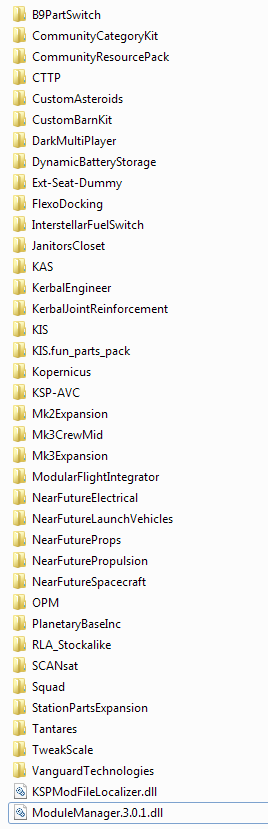
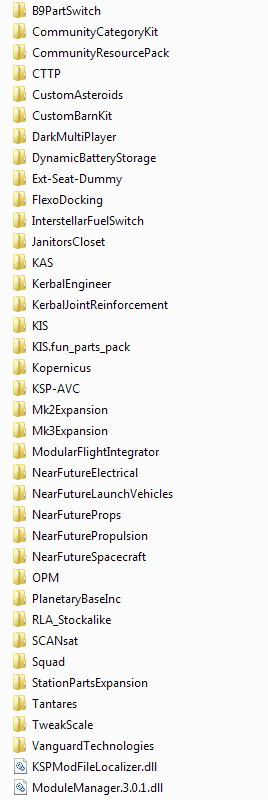
Add files via upload

Changed region(s): [[0.0299, 0.0, 0.6567, 1.0], [0.3284, 0.8438, 0.4478, 0.875], [0.4776, 0.8438, 0.5373, 0.875]]

diff --git a/gettingstarted.html b/gettingstarted.html
@@ -164,6 +164,7 @@ Step 4: connecting to the server
             <dt><a href="https://d-mp.org/downloads/release/latest/DMPClient.zip">Dark Multiplayer (DMP)</a></dt>
             <dd>- This is the client mod for multiplayer in KSP</dd>
             <dd>- Get the primary zip archive from the link above, and place the contents of its ../DMPClient/GameData folder into your ../GameData folder.</dd>
+            <dd>- NOTE: a newer multiplayer mod has been getting developed lately, I am currently running testing to see if this will be suitable to replace DMP.</dd>
             
             &nbsp;
             <dt><a href="https://github.com/skalou/Ext-Seat-Dummy/releases/latest">External Seat Dummy</a></dt>
@@ -254,6 +255,11 @@ Step 4: connecting to the server
             <dd>- Provides framework for changing stock values (such as antenna range).</dd>
             
             &nbsp;
+            <dt><a href="https://www.curseforge.com/kerbal/ksp-mods/interstellar-fuel-switch/files">Interstellar fuel switch</a></dt>
+            <dd>- Provides the ability to switch fueltank contents.</dd>
+            <dd>- Get the latest release from the link, install as normal, and remove the parts folder from ../GameData/InterstellarFuelSwitch</dd>
+            
+            &nbsp;
             <dt><a href="https://github.com/ferram4/Kerbal-Joint-Reinforcement/releases/latest">Kerbal Joint Reinforcement</a></dt>
             <dd>- Makes craft joints less spaghetti.</dd>
             
@@ -266,10 +272,6 @@ Step 4: connecting to the server
             <dt><a href="https://github.com/CYBUTEK/KSPAddonVersionChecker/releases/latest">KSP Addon Version Checker (AVC)</a></dt>
             <dd>- Provides automated version checking, to make sure that the latest version of a mod is installed.</dd>
             <dd>- Get the primary zip archive from the link above, and place the ../KSP-AVC folder into your ../GameData folder.</dd>
-            
-            &nbsp;
-            <dt><a href="https://spacedock.info/mod/1284/Mk3%20Shuttle%20Mid-Deck%20IVA">Mark Three Shuttle Mid-deck IVA</a></dt>
-            <dd>- Adds a mid-deck and two extra crew seats to the Mark Three Shuttle command pod.</dd>
             
             &nbsp;
             <dt><a href="https://github.com/linuxgurugamer/JanitorsCloset/releases/latest">The Janitor's Closet</a></dt>
